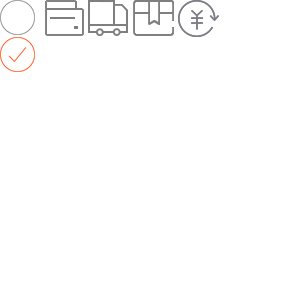
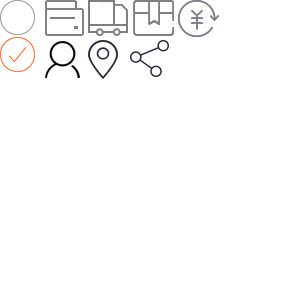
为index_1.html添加动画

diff --git a/m/Mobile-mall/css/index.css b/m/Mobile-mall/css/index.css
@@ -1,11 +1,39 @@
 @charset "UTF-8";
-html,body{height: 100%;}
-.wrap{height: 100%;background: url(../images/index_bg.jpg) center top #0d0d0d no-repeat;background-size: cover;overflow: hidden;}
+body{background-color: #0d0d0d;}
+.main{height: 23.95rem;background: url(../images/index_bg.jpg) center top #0d0d0d no-repeat;background-size: cover;overflow: hidden;position: relative;}
 .title{text-align: center;margin-top: 29px;font-size: 1.3rem;}
 .logo{width: 5.425rem;height: 5.425rem;left: 5.3rem;top: 10.025rem;}
-.story{width: 3.1rem;height: 3.1rem;top: 4.725rem;left: 6.45rem;line-height: 3.1rem;font-size: .7rem;}
+.story{width: 3.1rem;height: 3.1rem;top: 4.725rem;left: 6.45rem;line-height: 3.1rem;font-size: .7rem;-webkit-animation: duang .8s linear 0s infinite forwards;animation: duang .8s linear 0s infinite forwards;}
 .plant,.nutrition{width: 2.55rem;height: 2.55rem;top: 7.2rem;line-height: 2.55rem;font-size: .65rem;}
-.plant{left: 1.65rem;}
-.nutrition{right: 1.8rem;}
-
-.logo,.story,.plant,.nutrition{background-color: #4c4c4c;border-radius: 50%;border: 5px solid rgba(255,255,255,.5);position: absolute;text-align: center;text-align: center;color: #fff;}
+.plant{left: 1.65rem;-webkit-animation: duang .8s linear .5s infinite forwards;animation: duang .8s linear .5s infinite forwards;}
+.nutrition{right: 1.8rem;-webkit-animation: duang .8s linear 1s infinite forwards;animation: duang .8s linear 1s infinite forwards;}
+.brand,.recuperate,.tips,.recipes{width: 41px;width: 2.575rem;height: 41px;height: 2.575rem;line-height: 41px;line-height: 2.575rem;font-size: 10px;font-size: .65rem;}
+.recuperate{left: 5px;left: .35rem;top: 191px;top: 11.975rem;-webkit-animation: duang .8s linear .7s infinite forwards;animation: duang .8s linear .7s infinite forwards;}
+.brand{right: 5px;right: .35rem;top: 191px;top: 11.975rem;-webkit-animation: duang .8s linear 1.1s infinite forwards;animation: duang .8s linear 1.1s infinite forwards;}
+.tips,.recipes{top: 260px;top: 16.3rem;}
+.tips{left: 32px;left: 2.05rem;-webkit-animation: duang .8s linear .3s infinite forwards;animation: duang .8s linear .3s infinite forwards;}
+.recipes{left: 178px;left: 11.175rem;-webkit-animation: duang .8s linear 1s infinite forwards;animation: duang .8s linear 1s infinite forwards;}
+.mall{width: 49px;width: 3.1rem;height: 49px;height: 3.1rem;line-height: 49px;line-height: 3.1rem;top: 291px;top: 18.225rem;left: 103px;left: 6.45rem;font-size: 10px;font-size: .65rem;-webkit-animation: duang .8s linear .9s infinite forwards;animation: duang .8s linear .9s infinite forwards;}
+.logo,.story,.plant,.nutrition,.brand,.recuperate,.tips,.recipes,.mall{background-color: rgba(76, 76, 76,.7);border-radius: 50%;border: 5px solid rgba(255,255,255,.5);position: absolute;text-align: center;color: #fff;}
+.btnBox{height: 57px;line-height: 57px;text-align: center;font-size: 0;}
+.btnBox a{width: 35px;height: 35px;line-height: 35px;border-radius: 50%;margin-right: .9rem;display: inline-block;background-color: #fff;margin-top: 11px;}
+.userIcon{background: url(../images/userIcon.png) no-repeat;}
+.locationIcon{background: url(../images/locationIcon.png) no-repeat;}
+.shareIcon{background: url(../images/shareIcon.png) no-repeat;}
+.userIcon,.locationIcon,.shareIcon{width: 35px;height: 35px;background-size: 35px 35px;}
+/*.btnBox .icon{background-size: 150px 150px;display: inline-block;background: url(../images/icon.png) no-repeat;}
+.btnBox .btn:nth-of-type(1) .icon{width: 18px;height: 19px;background-position: -22px -20px;}
+.btnBox .btn:nth-of-type(2) .icon{width: 15px;height: 20px;background-position: -44px -20px;}
+.btnBox .btn:nth-of-type(3) .icon{width: 20px;height: 19px;background-position: -65px -20px;}*/
+.btnBox a:last-of-type{margin-right: 0;}
+footer{height: 54px;line-height: 27px;color: #fff;font-size: .6rem;text-align: center;background-color: #000;padding: 10px 0;}
+footer p:last-of-type{color: #fff600;}
+/*动画*/
+@-webkit-keyframes duang{
+	0%,100{-webkit-transform: scale(1);transform: scale(1);}
+	50%{-webkit-transform: scale(0.9);transform: scale(0.9);}
+}
+@keyframes duang{
+	0%,100{-webkit-transform: scale(1);transform: scale(1);}
+	50%{-webkit-transform: scale(0.9);transform: scale(0.9);}
+}

diff --git a/m/Mobile-mall/index_1.html b/m/Mobile-mall/index_1.html
@@ -14,6 +14,9 @@
 <meta name="screen-orientation" content="portrait">
 <!-- QQ强制竖屏 -->
 <meta name="x5-orientation" content="portrait">
+<meta http-equiv="pragma" content="no-cache">
+<meta http-equiv="cache-control" content="no-cache">
+<meta http-equiv="expires" content="0"> 
 <meta name="author" content="银狐">
 <meta name="robots" content="all">
 <meta name="description" content="">
@@ -24,11 +27,27 @@
 </head>
 <body>
 <div class="wrap">
-	<h1 class="title">來自高源雪山食品</h1>
-	<div class="logo"><img src="images/index_logo.png" alt=""></div>
-	<div class="story">故事</div>
-	<div class="plant">種植</div>
-	<div class="nutrition">營養</div>
+	<div class="main">
+		<h1 class="title">來自高源雪山食品</h1>
+		<div class="logo"><img src="images/index_logo.png" alt=""></div>
+		<a href="javascript:" class="story">故事</a>
+		<a href="javascript:" class="plant">種植</a>
+		<a href="javascript:" class="nutrition">營養</a>
+		<a href="javascript:" class="recuperate">调理</a>
+		<a href="javascript:" class="brand">品牌</a>
+		<a href="javascript:" class="tips">貼士</a>
+		<a href="javascript:" class="recipes">食譜</a>
+		<a href="javascript:" class="mall">商城</a>
+	</div>	
+	<div class="btnBox">
+		<a href="javascript:" class="btn userIcon"></a>
+		<a href="javascript:" class="btn locationIcon"></a>
+		<a href="javascript:" class="btn shareIcon"></a>
+	</div>
+	<footer>
+		<p>copyright@2015 enherbs.com</p>
+		<p>设计与系统由淘经站支持</p>
+	</footer>
 </div>
 </body>
 </html>
